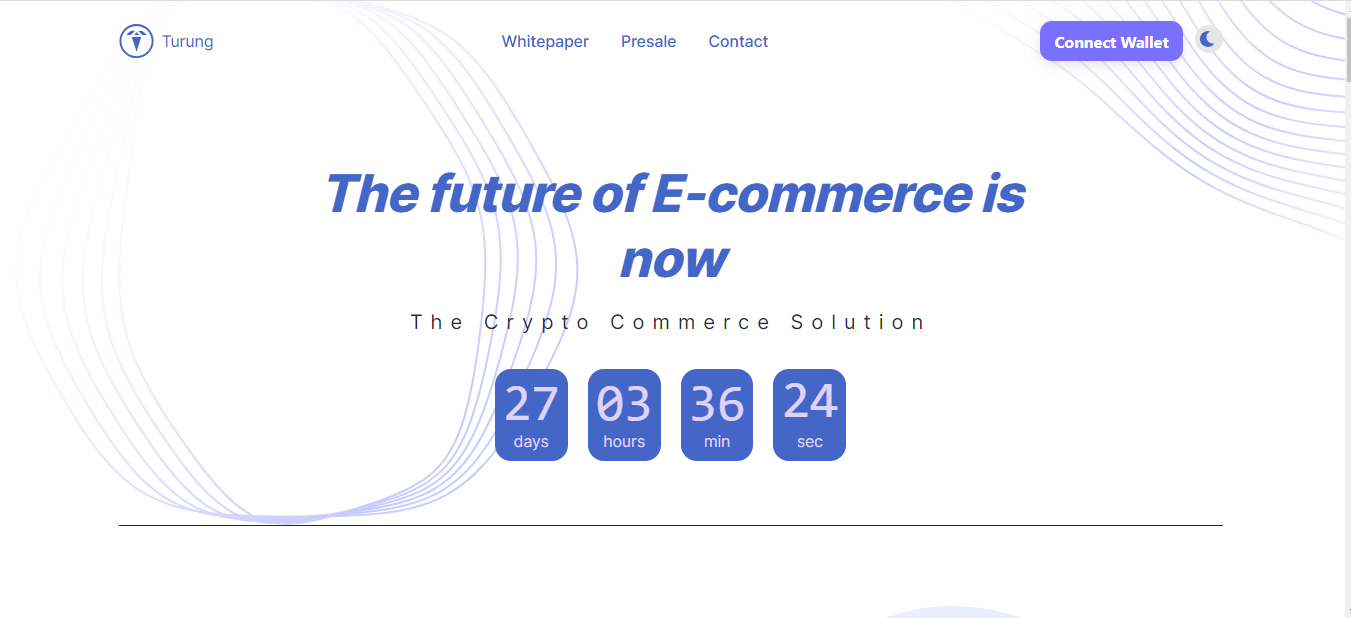
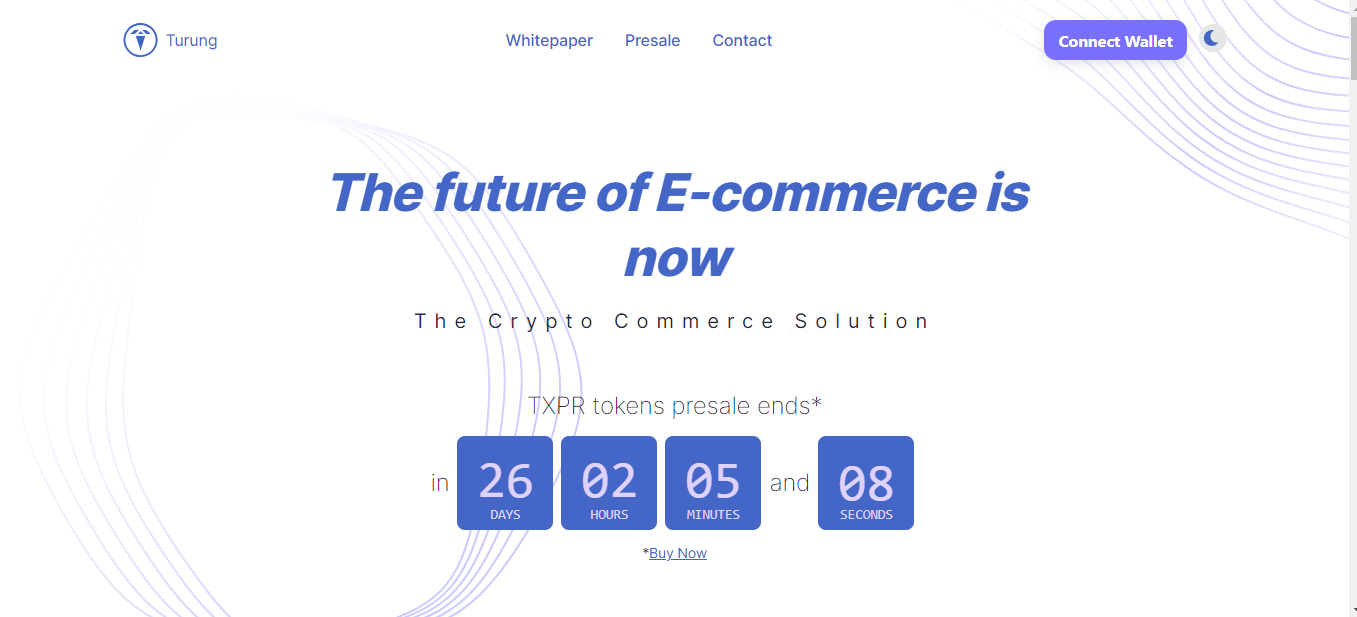
changed twitter image and homepage fontsize

diff --git a/components/about.tsx b/components/about.tsx
@@ -8,22 +8,24 @@ const About = () => {
           {/* Section header */}
           <div className="max-w-3xl mx-auto text-center ">
             <h2 className="h2 mb-4 text-primary">About Turung & TURUPay</h2>
-            <p className="text-xl">
+            <p className="text-md lg:text-xl">
               Over 80% of offline businesses don't have an online store. Turung
               will be empowering the next generation of businesses with digital
               smart stores to sell online, accept crypto/fiat payments, and also
               process crypto-fiat liquidity through a decentralized payment
               system called Turupay.
             </p>
-            <p className="text-xl mt-1">
+            <p className="text-md lg:text-xl mt-4">
               TURUpay is a decentralised payment system that converts crypto
               assets to fiat currencies through a single transaction to cut down
-              the time and cost of multiple transactions. With over 10,000
-              crypto assets existing on different blockchains, TURUpay will make
-              Turung the fastest-growing peer-to-peer platform to provide fiat
-              liquidity for crypto purchases in the blockchain space. All
-              transactions within the ecosystem will be powered by Turu
-              transaction tokens (TXPR).
+              the time and cost of multiple transactions.
+            </p>
+            <p className="text-md lg:text-xl mt-4">
+              With over 10,000 crypto assets existing on different blockchains,
+              TURUpay will make Turung the fastest-growing peer-to-peer platform
+              to provide fiat liquidity for crypto purchases in the blockchain
+              space. All transactions within the ecosystem will be powered by
+              Turu transaction tokens (TXPR).
             </p>
           </div>
         </div>

diff --git a/components/features.tsx b/components/features.tsx
@@ -9,7 +9,7 @@ export default function Features() {
           {/* Section header */}
           <div className="max-w-3xl mx-auto text-center pb-12 md:pb-20">
             <h2 className="h2 mb-4 text-primary">Benefits</h2>
-            <p className="text-xl">
+            <p className="text:md lg:text-xl">
               In a consumer-driven world, blending traditional businesses with a
               Turung smart store unleashes superpowers, transforming them into
               mini-banks with many benefits including:
@@ -25,19 +25,25 @@ export default function Features() {
               title="Customers"
               description="Build and manage customer base more efficiently."
               delay="200"
-              icon={<FaPeopleArrows className="w-16 h-16 mb-4 text-primary" />}
+              icon={
+                <FaPeopleArrows className="w-12 lg:w-16 h-12 lg:h-16 mb-4 text-primary" />
+              }
             />
             <Feature
               title="Cross Platforms"
               description="Accept both crypto and fiat for products and services."
               delay="0"
-              icon={<FaExchangeAlt className="w-16 h-16 mb-4 text-primary" />}
+              icon={
+                <FaExchangeAlt className="w-12 lg:w-16 h-12 lg:h-16 mb-4 text-primary" />
+              }
             />
             <Feature
               title="Rewards"
               description="Get rewards to process crypto fiat liquidity."
               delay="100"
-              icon={<FaWallet className="w-16 h-16 mb-4 text-primary" />}
+              icon={
+                <FaWallet className="w-12 lg:w-16 h-12 lg:h-16 mb-4 text-primary" />
+              }
             />
           </div>
         </div>

diff --git a/app/(default)/presale/layout.tsx b/app/(default)/presale/layout.tsx
@@ -1,0 +1,57 @@
+import { Metadata } from "next";
+
+import PageIllustration from "@/components/page-illustration";
+
+const { NEXT_PUBLIC_BASE_URL } = process.env;
+
+export const metadata: Metadata = {
+  title: "Turung Presale | Secure Your Tokens at Exclusive Rates",
+  description:
+    "Participate in the Turung presale and secure your tokens at exclusive rates before the official launch. Join us in revolutionizing offline businesses with digital smart stores and blockchain technology. Don't miss this limited-time opportunity",
+  keywords: [
+    "E-commerce",
+    "Crypto Token",
+    "Cryptocurrency",
+    "Turung Presale",
+    "Token Sale",
+    "Buy TXPR",
+    "Crypto Investment",
+    "Blockchain",
+    "Cryptocurrency News",
+    "Crypto Community",
+    "Digital Smart Stores",
+    "Offline Businesses",
+    "Crypto Payments",
+    "Crypto Roadmap",
+    "Binance Smart Chain",
+    "Turupay",
+    "Limited Time Offer",
+  ],
+  creator: "KunJon",
+  metadataBase: new URL(NEXT_PUBLIC_BASE_URL),
+  openGraph: {
+    title: "Turung Presale | Secure Your Tokens at Exclusive Rates",
+    description:
+      "Participate in the Turung presale and secure your tokens at exclusive rates before the official launch. Join us in revolutionizing offline businesses with digital smart stores and blockchain technology. Don't miss this limited-time opportunity",
+    url: NEXT_PUBLIC_BASE_URL,
+    siteName: "Turung",
+    locale: "en_US",
+    type: "website",
+  },
+};
+
+export default function DefaultLayout({
+  children,
+}: {
+  children: React.ReactNode;
+}) {
+  return (
+    <>
+      <main className="grow">
+        <PageIllustration />
+
+        {children}
+      </main>
+    </>
+  );
+}

diff --git a/components/community.tsx b/components/community.tsx
@@ -34,7 +34,7 @@ const Community = () => {
               >
                 <div className="md:pr-4 lg:pr-12 xl:pr-16">
                   <h3 className="h2 mb-3 text-primary">Join our community</h3>
-                  <p className="text-xl mb-4">
+                  <p className="text-md lg:text-xl mb-4">
                     Join project community and be amongst the first to get a
                     free smartstore.
                   </p>
@@ -43,16 +43,16 @@ const Community = () => {
                       href={"https://twitter.com/turungcommunity"}
                       target="_blank"
                     >
-                      <FaTwitter className="h-10 w-10" />
+                      <FaTwitter className="h-8 w-8 lg:h-10 lg:w-10" />
                     </Link>
                     <Link
                       href={"https://www.linkedin.com/company/turung"}
                       target="_blank"
                     >
-                      <FaLinkedin className="h-10 w-10 ml-4" />
+                      <FaLinkedin className="h-8 w-8 lg:h-10 lg:w-10 ml-4" />
                     </Link>
                     <Link href={"https://t.me/turungcommunity"} target="_blank">
-                      <FaTelegram className="h-10 w-10 ml-4" />
+                      <FaTelegram className="h-8 w-8 lg:h-10 lg:w-10 ml-4" />
                     </Link>
                   </div>
                 </div>

diff --git a/components/zigzag.tsx b/components/zigzag.tsx
@@ -40,11 +40,11 @@ export default function Zigzag() {
                   <h3 className="h2 mb-3 text-primary">
                     Sales don’t have to be difficult!
                   </h3>
-                  <p className="text-xl mb-4">
+                  <p className="text-lg lg:text-xl mb-4">
                     Streamline Your Business with Our Cutting-Edge Crypto
                     Payment Processing Solutions
                   </p>
-                  <ul className="text-lg -mb-2">
+                  <ul className="text:md lg:text-lg -mb-2">
                     <li className="flex items-center mb-2">
                       <svg
                         className="w-3 h-3 fill-current text-green-700 mr-2 shrink-0"

diff --git a/app/(default)/presale/page.tsx b/app/(default)/presale/page.tsx
@@ -1,13 +1,13 @@
 "use client";
 
 import React from "react";
+import { useAccount } from "wagmi";
+import { ConnectButton } from "@rainbow-me/rainbowkit";
 
 import Exchange from "@/components/presale/exchange";
 import Progress from "@/components/presale/progress";
 import Statistic from "@/components/presale/statistic";
 import Timer from "@/components/timer";
-import { useAccount } from "wagmi";
-import { ConnectButton } from "@rainbow-me/rainbowkit";
 
 const PresalePage = () => {
   const { address, isConnected } = useAccount();

diff --git a/components/utility.tsx b/components/utility.tsx
@@ -6,7 +6,7 @@ const Utility = ({ title, description }: Props) => {
   return (
     <div className="relative flex flex-col items-center">
       <h4 className="h4 mb-2 text-white">{title}</h4>
-      <p className="text-lg text-white text-center">{description}</p>
+      <p className="text:md lg:text-lg text-white text-center">{description}</p>
     </div>
   );
 };

diff --git a/components/usecase.tsx b/components/usecase.tsx
@@ -11,7 +11,7 @@ const Usecase = () => {
             <h2 className="h2 mb-4 text-primary">
               Our Usecases and Tokenomics
             </h2>
-            <p className="text-xl">
+            <p className="text:md lg:text-xl">
               We have mapped out a clear roadmap as well as an effective
               tokenomics
             </p>

diff --git a/components/feature.tsx b/components/feature.tsx
@@ -17,7 +17,7 @@ const Feature = ({ title, description, icon, delay }: Props) => {
     >
       {icon}
       <h4 className="h4 mb-2">{title}</h4>
-      <p className="text-lg text-center">{description}</p>
+      <p className="text:md lg:text-lg text-center">{description}</p>
     </div>
   );
 };
